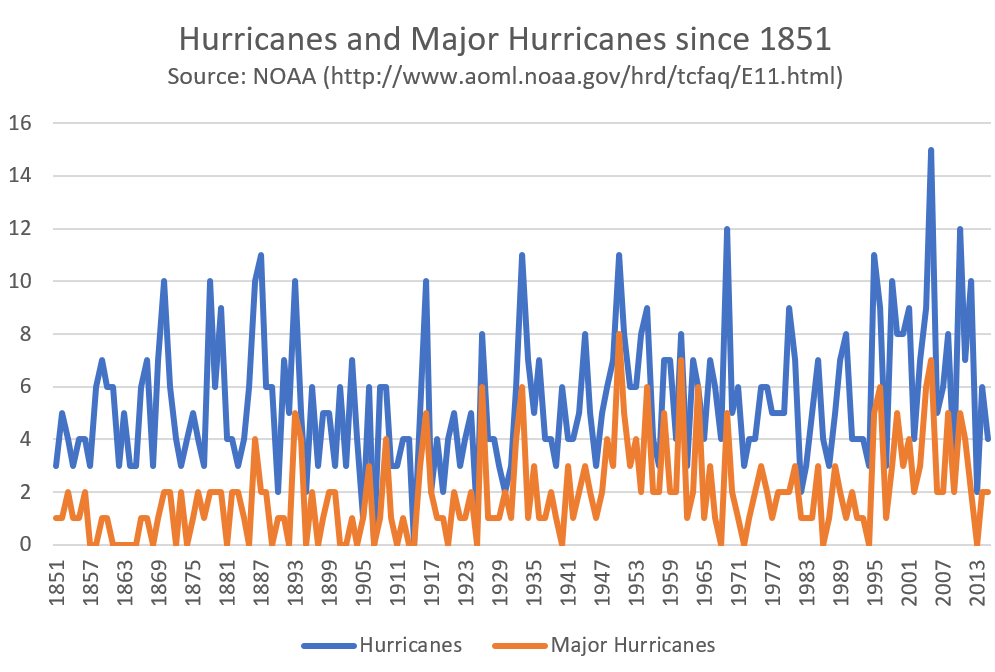
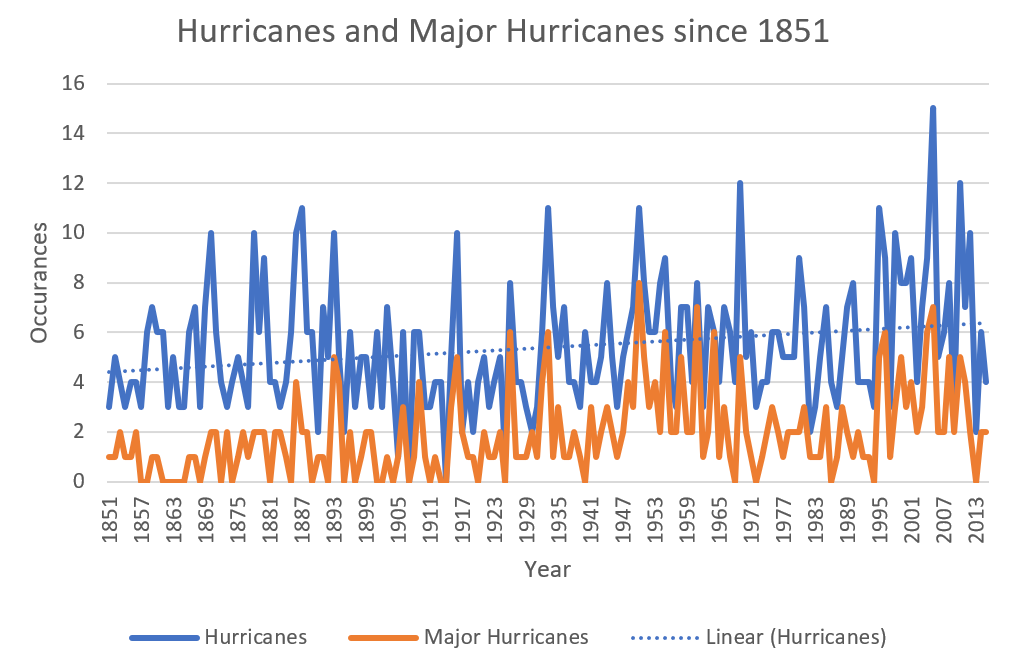
fix charts

diff --git a/Extreme_Weather/index.html b/Extreme_Weather/index.html
@@ -53,7 +53,7 @@ This page will show several visualizations that demonstrate that increase in glo
 
 	<img src="Hurricane_Chart.png" class="center" class="border"> <br>
 
-	<a class="center" href= "https://ourworldindata.org/natural-disasters"> Source: Our World in Data </a> <br>
+	<a class="center" href= "http://www.aoml.noaa.gov/hrd/tcfaq/E11.html"> Source: NOAA </a> <br>
 
 <h1 class="center"> Flood occurances have grown with the most frequnecy... </h1>
 
